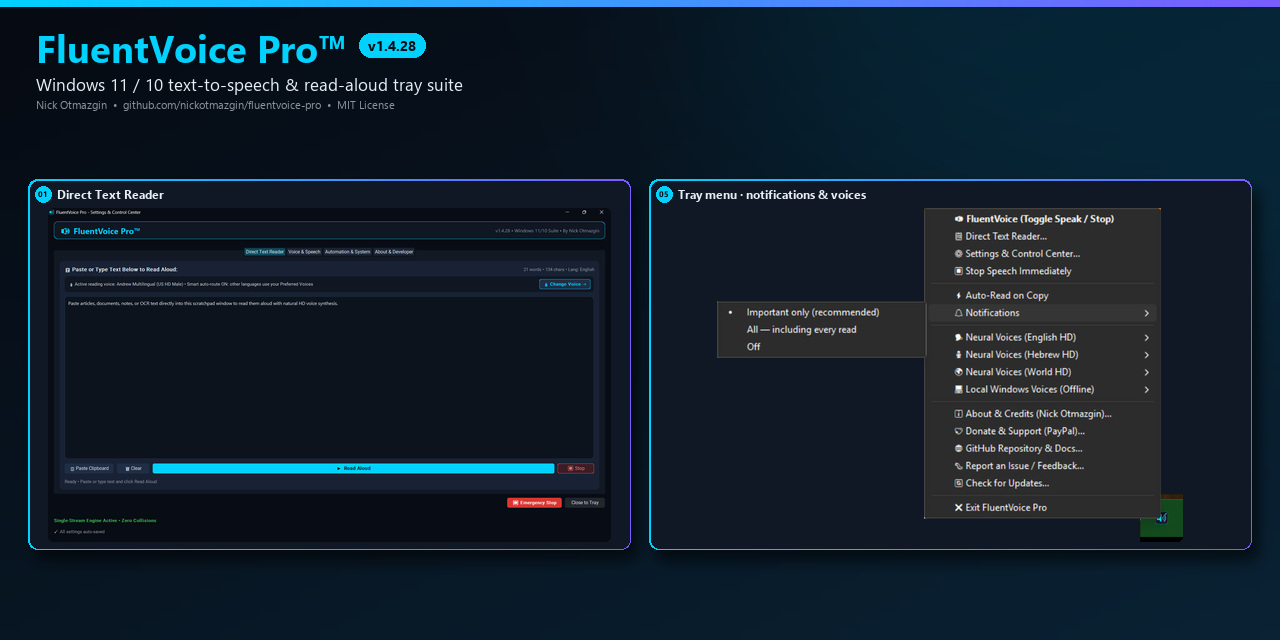
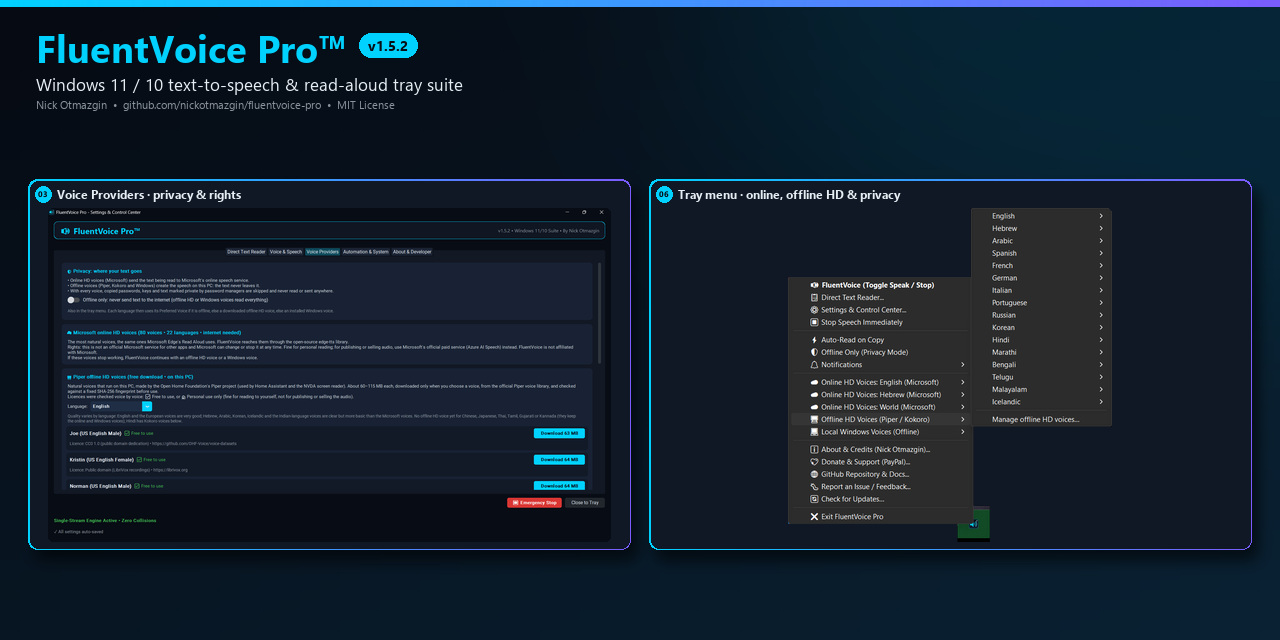
docs: v1.5.2 screenshots, collage, social preview and 5-minute demo video (#38)

diff --git a/scripts/build_collage.py b/scripts/build_collage.py
@@ -20,18 +20,18 @@ SRC = ROOT / "screenshots" / f"v{VERSION}"
 
 TITLE = "FluentVoice Pro™"
 SUBTITLE = "Windows 11 / 10 text-to-speech & read-aloud tray suite"
-HIGHLIGHTS = "80 HD voices in 22 languages  •  Every offline Windows voice  •  Smart auto-route  •  Direct Text Reader  •  SHA-256 verified updates"
+HIGHLIGHTS = "80 online HD voices  •  57 offline HD voices (Piper & Kokoro)  •  Offline-only privacy mode  •  22 languages  •  SHA-256 verified"
 FOOTER = "Nick Otmazgin  •  github.com/nickotmazgin/fluentvoice-pro  •  MIT License"
 
 PANELS = [  # (file, number, label) in reading order
     ("01-settings-reader.png", "01", "Direct Text Reader"),
     ("02-settings-voice.png", "02", "Voice & Speech"),
-    ("03-settings-automation.png", "03", "Automation & System"),
-    ("04-settings-about-updates.png", "04", "About · Updates & Factory Reset"),
-    ("05-tray-menu.png", "05", "Tray menu · notifications & voices"),
-    ("06-desktop-icon-live.png", "06", "Desktop icon"),
+    ("03-settings-voice-providers.png", "03", "Voice Providers · privacy & rights"),
+    ("04-settings-automation.png", "04", "Automation & System"),
+    ("05-settings-about-updates.png", "05", "About · Updates & Factory Reset"),
+    ("06-tray-menu.png", "06", "Tray menu · online, offline HD & privacy"),
     ("07-tray-icon-closeup.png", "07", "Tray icon · HD + live"),
-    ("08-settings-automation-updates.png", "08", "Automation · Startup & Shortcuts"),
+    ("08-settings-automation-preferred.png", "08", "Preferred Voices · one compact row"),
     ("09-portable-first-launch.png", "09", "Portable first launch"),
 ]
 
@@ -172,7 +172,7 @@ def main() -> None:
     q = gradient_bg(S, S)
     accent_bar(q, 8)
     top = header(q, 0.62, 40, 30, compact=True)
-    picks = [PANELS[0], PANELS[7], PANELS[4], PANELS[8]]  # 01 Reader, 08 Startup, 05 tray, 09 portable prompt
+    picks = [PANELS[2], PANELS[0], PANELS[5], PANELS[7]]  # 03 Voice Providers, 01 Reader, 06 tray, 08 Preferred
     m, gap = 36, 24
     pw, ph = (S - 2 * m - gap) // 2, (S - top - m - gap) // 2
     for i, (f, n, label) in enumerate(picks):
@@ -188,7 +188,7 @@ def main() -> None:
     pw = (1280 - 2 * m - gap) // 2
     ph = int(29 * s) + round((pw - 2 * int(8 * s)) * 1140 / 1920) + int(8 * s)
     y = top + max(0, (640 - top - m - ph) // 2)
-    for i, (f, n, label) in enumerate((PANELS[0], PANELS[4])):
+    for i, (f, n, label) in enumerate((PANELS[2], PANELS[5])):  # 03 Voice Providers, 06 tray menu
         panel(og, shots[f], n, label, m + i * (pw + gap), y, pw, ph, s=s)
     og_path = SRC / "social-preview-1280x640.jpg"
     og.save(og_path, "JPEG", quality=94, optimize=True, subsampling=0)

diff --git a/scripts/capture_settings.py b/scripts/capture_settings.py
@@ -1,12 +1,13 @@
-"""Capture maximized Settings screenshots for the README (01–04, optional Automation bottom).
+"""Capture maximized Settings screenshots for the README (01–05, optional Automation bottom).
 
 Usage (repo root):
-    python scripts/capture_settings.py                  # 01–04 into screenshots/v<version>/
+    python scripts/capture_settings.py                  # 01–05 into screenshots/v<version>/
     python scripts/capture_settings.py --bottom out.png # Automation tab scrolled to the bottom
 
 Runs against a temporary home folder, so your real ~/.fluentvoice settings are never
-read or changed (screens show default settings). 05 tray menu, 06/07 icons and 09 portable
-prompt are captured by hand; then run scripts/build_collage.py.
+read or changed (screens show default settings). 06 tray menu, 07 tray icon, 08 (Automation
+scrolled to Preferred Voices) and 09 portable prompt are captured by hand; then run
+scripts/build_collage.py.
 """
 from __future__ import annotations
 
@@ -29,8 +30,9 @@ REAL_HOME = str(Path.home())  # read before the temporary profile replaces HOME 
 TABS = [
     ("01-settings-reader.png", "Direct Text Reader"),
     ("02-settings-voice.png", "Voice & Speech"),
-    ("03-settings-automation.png", "Automation & System"),
-    ("04-settings-about-updates.png", "About & Developer"),
+    ("03-settings-voice-providers.png", "Voice Providers"),
+    ("04-settings-automation.png", "Automation & System"),
+    ("05-settings-about-updates.png", "About & Developer"),
 ]
 
 

diff --git a/README.md b/README.md
@@ -23,64 +23,70 @@ Equipped with a **Windows 11 Fluent UI Settings & Control Center**, global singl
 
 ## Demo video
 
-*A 4-minute tour of v1.4.28 (real app, real voices; turn the sound on): Direct Text Reader, a language-and-voice tour including Hindi, Thai, Icelandic and Arabic, a Windows offline voice (George), smart auto-route with Hebrew right-to-left, Notifications, and the tray menu.*
+*A 5-minute tour of v1.5.2 (real app, real voices; turn the sound on): Direct Text Reader, eight Microsoft online voices (US & UK English, Hebrew, Arabic, Spanish, French, Japanese, Hindi), the new Voice Providers tab with a live Piper download and Kokoro offline voices, Offline-only privacy mode, Preferred Voices, About & Updates, and the tray's Offline HD Voices menu.*
 
-https://github.com/user-attachments/assets/4347f702-a9bb-4f5b-92bf-6b88f28ed68e
+https://github.com/user-attachments/assets/c84a3edc-bb7b-4b9a-8e05-e109d0001f3a
 
 ---
 
 ## Screenshots
 
-*FluentVoice Pro **v1.4.28** — click any image to view it full size.*
+*FluentVoice Pro **v1.5.2** — click any image to view it full size.*
 
-[![FluentVoice Pro v1.4.28 collage](screenshots/v1.4.28/collage-v1.4.28.jpg)](screenshots/v1.4.28/collage-v1.4.28.jpg)
+[![FluentVoice Pro v1.5.2 collage](screenshots/v1.5.2/collage-v1.5.2.jpg)](screenshots/v1.5.2/collage-v1.5.2.jpg)
 
 <table>
   <tr>
     <td align="center">
-      <a href="screenshots/v1.4.28/01-settings-reader.png"><img src="screenshots/v1.4.28/01-settings-reader.png" width="260" alt="Direct Text Reader"></a><br>
+      <a href="screenshots/v1.5.2/01-settings-reader.png"><img src="screenshots/v1.5.2/01-settings-reader.png" width="260" alt="Direct Text Reader"></a><br>
       <b>01</b> — Direct Text Reader
     </td>
     <td align="center">
-      <a href="screenshots/v1.4.28/02-settings-voice.png"><img src="screenshots/v1.4.28/02-settings-voice.png" width="260" alt="Voice &amp; Speech"></a><br>
+      <a href="screenshots/v1.5.2/02-settings-voice.png"><img src="screenshots/v1.5.2/02-settings-voice.png" width="260" alt="Voice &amp; Speech"></a><br>
       <b>02</b> — Voice &amp; Speech
     </td>
     <td align="center">
-      <a href="screenshots/v1.4.28/03-settings-automation.png"><img src="screenshots/v1.4.28/03-settings-automation.png" width="260" alt="Automation &amp; System"></a><br>
-      <b>03</b> — Automation &amp; System
+      <a href="screenshots/v1.5.2/03-settings-voice-providers.png"><img src="screenshots/v1.5.2/03-settings-voice-providers.png" width="260" alt="Voice Providers: privacy, rights &amp; offline HD voices"></a><br>
+      <b>03</b> — Voice Providers · privacy &amp; rights
     </td>
   </tr>
   <tr>
     <td align="center">
-      <a href="screenshots/v1.4.28/04-settings-about-updates.png"><img src="screenshots/v1.4.28/04-settings-about-updates.png" width="260" alt="About, Updates &amp; Factory Reset"></a><br>
-      <b>04</b> — About · Updates &amp; Factory Reset
+      <a href="screenshots/v1.5.2/04-settings-automation.png"><img src="screenshots/v1.5.2/04-settings-automation.png" width="260" alt="Automation &amp; System"></a><br>
+      <b>04</b> — Automation &amp; System
     </td>
     <td align="center">
-      <a href="screenshots/v1.4.28/05-tray-menu.png"><img src="screenshots/v1.4.28/05-tray-menu.png" width="260" alt="Tray right-click menu"></a><br>
-      <b>05</b> — Tray menu · notifications &amp; voices
+      <a href="screenshots/v1.5.2/05-settings-about-updates.png"><img src="screenshots/v1.5.2/05-settings-about-updates.png" width="260" alt="About, Updates &amp; Factory Reset"></a><br>
+      <b>05</b> — About · Updates &amp; Factory Reset
     </td>
     <td align="center">
-      <a href="screenshots/v1.4.28/06-desktop-icon-live.png"><img src="screenshots/v1.4.28/06-desktop-icon-live.png" width="260" alt="Desktop icon"></a><br>
-      <b>06</b> — Desktop icon
+      <a href="screenshots/v1.5.2/06-tray-menu.png"><img src="screenshots/v1.5.2/06-tray-menu.png" width="260" alt="Tray right-click menu"></a><br>
+      <b>06</b> — Tray menu · online, offline HD &amp; privacy
     </td>
   </tr>
   <tr>
     <td align="center">
-      <a href="screenshots/v1.4.28/07-tray-icon-closeup.png"><img src="screenshots/v1.4.28/07-tray-icon-closeup.png" width="260" alt="Tray icon: HD and live in the taskbar"></a><br>
+      <a href="screenshots/v1.5.2/07-tray-icon-closeup.png"><img src="screenshots/v1.5.2/07-tray-icon-closeup.png" width="260" alt="Tray icon: HD and live in the taskbar"></a><br>
       <b>07</b> — Tray icon · HD + live
     </td>
     <td align="center">
-      <a href="screenshots/v1.4.28/08-settings-automation-updates.png"><img src="screenshots/v1.4.28/08-settings-automation-updates.png" width="260" alt="Automation: Startup &amp; Shortcuts"></a><br>
-      <b>08</b> — Automation · Startup &amp; Shortcuts
+      <a href="screenshots/v1.5.2/08-settings-automation-preferred.png"><img src="screenshots/v1.5.2/08-settings-automation-preferred.png" width="260" alt="Preferred Voices: one compact row"></a><br>
+      <b>08</b> — Preferred Voices · one compact row
     </td>
     <td align="center">
-      <a href="screenshots/v1.4.28/09-portable-first-launch.png"><img src="screenshots/v1.4.28/09-portable-first-launch.png" width="260" alt="Portable first launch prompt"></a><br>
+      <a href="screenshots/v1.5.2/09-portable-first-launch.png"><img src="screenshots/v1.5.2/09-portable-first-launch.png" width="260" alt="Portable first launch prompt"></a><br>
       <b>09</b> — Portable first launch
+    </td>
+  </tr>
+  <tr>
+    <td align="center" colspan="3">
+      <a href="screenshots/v1.5.2/10-tray-offline-voices.png"><img src="screenshots/v1.5.2/10-tray-offline-voices.png" width="360" alt="Tray: downloaded offline HD voices by language"></a><br>
+      <b>10</b> — Tray · downloaded offline HD voices (Piper &amp; Kokoro), pick one in two clicks
     </td>
   </tr>
 </table>
 
-Full combined image (download): [collage-v1.4.28.jpg](screenshots/v1.4.28/collage-v1.4.28.jpg)
+Full combined image (download): [collage-v1.5.2.jpg](screenshots/v1.5.2/collage-v1.5.2.jpg)
 
 ---
 

diff --git a/docs/SCREENSHOTS.md b/docs/SCREENSHOTS.md
@@ -1,4 +1,4 @@
-# Screenshots (v1.4.28)
+# Screenshots (v1.5.2)
 
 HD captures for the README, the GitHub social preview, and social posts.
 
@@ -6,28 +6,29 @@ HD captures for the README, the GitHub social preview, and social posts.
 
 | File | Purpose |
 |------|---------|
-| `screenshots/v1.4.28/collage-v1.4.28.jpg` | README hero collage (3840 wide, 3×3: 01–09) |
-| `screenshots/v1.4.28/social-preview-1280x640.jpg` | GitHub OG / link preview (also `.github/social-preview.{jpg,png}`) |
-| `screenshots/v1.4.28/social-collage-1080.jpg` | Square social post |
-| `screenshots/v1.4.28/01-settings-reader.png` | 01 Direct Text Reader |
-| `screenshots/v1.4.28/02-settings-voice.png` | 02 Voice & Speech |
-| `screenshots/v1.4.28/03-settings-automation.png` | 03 Automation & System (Auto-Read, language, hotkey) |
-| `screenshots/v1.4.28/04-settings-about-updates.png` | 04 About · Updates & Factory Reset |
-| `screenshots/v1.4.28/05-tray-menu.png` | 05 Tray right-click menu (🔔 Notifications submenu open) |
-| `screenshots/v1.4.28/06-desktop-icon-live.png` | 06 Desktop icon |
-| `screenshots/v1.4.28/07-tray-icon-closeup.png` | 07 Tray icon: HD (drawn by the tray code) + live 20 px capture from the taskbar |
-| `screenshots/v1.4.28/08-settings-automation-updates.png` | 08 Automation · Startup & Shortcuts, tray daemon, Updates |
-| `screenshots/v1.4.28/09-portable-first-launch.png` | 09 Portable EXE first-launch prompt (Start with Windows?) |
+| `screenshots/v1.5.2/collage-v1.5.2.jpg` | README hero collage (3840 wide, 3×3: 01–09) |
+| `screenshots/v1.5.2/social-preview-1280x640.jpg` | GitHub OG / link preview (also `.github/social-preview.{jpg,png}`) |
+| `screenshots/v1.5.2/social-collage-1080.jpg` | Square social post |
+| `screenshots/v1.5.2/01-settings-reader.png` | 01 Direct Text Reader |
+| `screenshots/v1.5.2/02-settings-voice.png` | 02 Voice & Speech |
+| `screenshots/v1.5.2/03-settings-voice-providers.png` | 03 Voice Providers: privacy, rights, Piper / Kokoro downloads |
+| `screenshots/v1.5.2/04-settings-automation.png` | 04 Automation & System (Auto-Read, language, hotkey, notifications) |
+| `screenshots/v1.5.2/05-settings-about-updates.png` | 05 About · Updates & Factory Reset |
+| `screenshots/v1.5.2/06-tray-menu.png` | 06 Tray right-click menu (Offline HD Voices submenu open, languages of the downloaded voices) |
+| `screenshots/v1.5.2/07-tray-icon-closeup.png` | 07 Tray icon: HD (drawn by the tray code) + live 20 px capture from the taskbar |
+| `screenshots/v1.5.2/08-settings-automation-preferred.png` | 08 Automation scrolled to Preferred Voices (one Language ▸ Voice row), tray, startup, updates |
+| `screenshots/v1.5.2/09-portable-first-launch.png` | 09 Portable EXE first-launch prompt (Start with Windows?) |
+| `screenshots/v1.5.2/10-tray-offline-voices.png` | 10 Tray → Offline HD Voices → English: the downloaded Piper / Kokoro voices (README only, not in the collage) |
 
 ## Recapture + rebuild
 
 ```powershell
-python scripts\capture_settings.py   # 01–04 (maximized Settings tabs, temporary profile)
+python scripts\capture_settings.py   # 01–05 (maximized Settings tabs, temporary profile)
 python scripts\build_collage.py      # collage + social images
 ```
 
-05 (tray menu), 06/07 (icons), 08 (Automation bottom: `capture_settings.py --bottom <png>`) and
-09 (portable first-launch prompt) are captured by hand into the same folder with the names above.
+06 and 10 (tray menu, captured with a tray running on a temporary profile that has offline voices), 07 (tray icon), 08 (Automation scrolled to Preferred Voices) and 09 (portable
+first-launch prompt) are captured by hand into the same folder with the names above.
 
 The version is read from `fluentvoice/__init__.py`. The GitHub social preview image must be uploaded
 by hand under **Settings → General → Social preview** (GitHub has no API for it).
